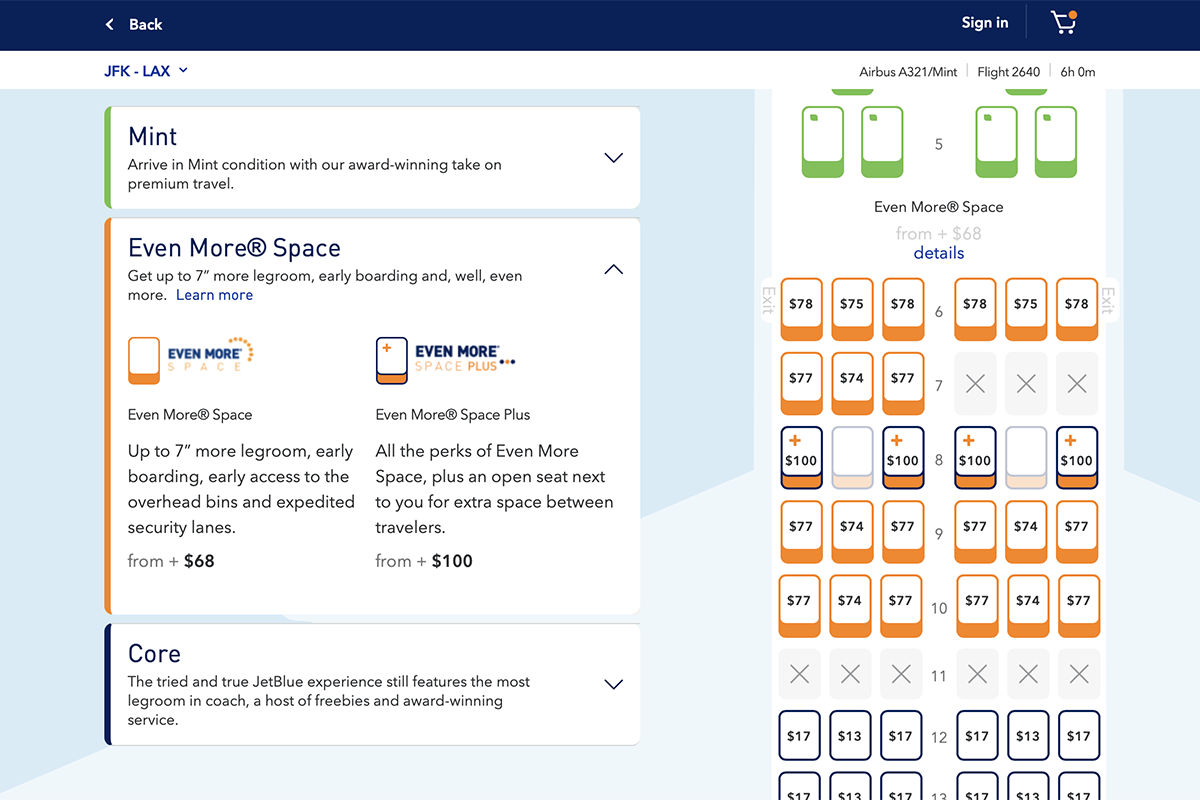
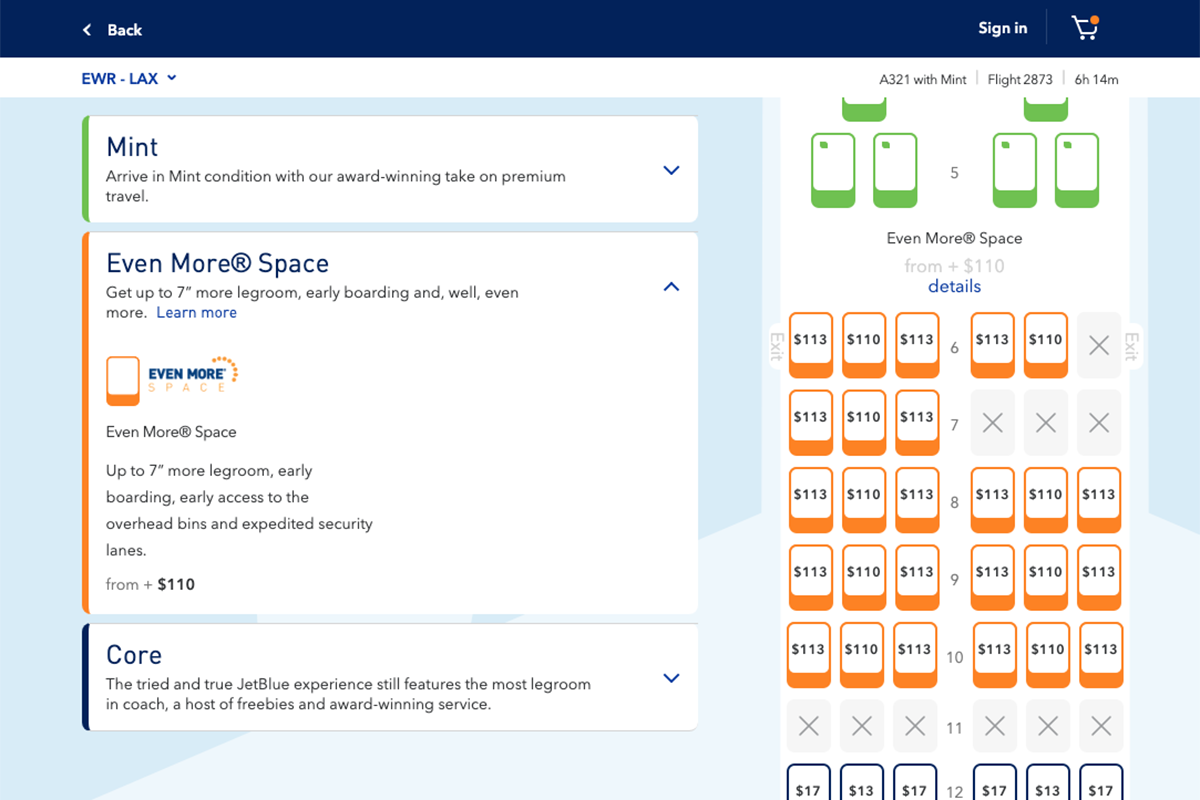
Deploying the "Redesigning the jetblue.com Booking Flow" work page

Changed region(s): [[0.0, 0.0, 1.0, 1.0], [0.3083, 0.4062, 0.4317, 0.5312]]

diff --git a/redesigning-booking.html b/redesigning-booking.html
@@ -160,7 +160,9 @@
 								<div class="row">
 									<div class=" col-xs-12 col-sm-12 ">
 										<div class="col-inner">
-											<p>Nulla nulla nisl, sodales ac nulla ac, consequat vulputate purus. Curabitur tincidunt ipsum vel nibh rutrum accumsan. Nunc ullamcorper posuere leo, vitae aliquet risus pharetra in. Integer turpis eros, iaculis et mi non, pulvinar egestas leo. Etiam sagittis ex turpis, vitae cursus tortor interdum eu. Quisque ultrices nunc eget erat vestibulum euismod. Ut mauris nisi, facilisis at arcu nec, facilisis porttitor lorem.</p><p>Vivamus vitae neque molestie, porta libero sed, tincidunt leo. In nec posuere odio, id rhoncus lorem. Proin id erat ut dolor condimentum viverra. Praesent viverra sed dolor ac luctus. Praesent placerat id lorem quis lacinia.</p>
+											<p>In the summer of 2017, <a href="http://mediaroom.jetblue.com/investor-relations/press-releases/2018/06-01-2018-174056016" title="JetBlue Unveils a Refreshed jetblue.com" target="_blank">JetBlue announced the "Digital 2020" program</a> - a three year initiative to redesign and reinvent all Customer-facing digital products. This program included a fully responsive and redesigned homepage, a <a href="redesigning-loyalty.html" title="Redesigning the TrueBlue Loyalty Experience">brand new Loyalty experience</a>, and a lofty goal of "reinventing the way Customers shop and book travel."</p>
+
+											<p>Below are some screenshots of the brand new booking experience set to fully roll out to Customers in the coming months.</p>
 
 											<figure>
 												<div class="twentytwenty-container">
@@ -169,18 +171,6 @@
 												</div>
 												<figcaption>Previous Flight Results experience left, new experience right.</figcaption>
 											</figure>
-
-											<p>Etiam interdum vulputate risus, vitae elementum neque consectetur sed. Donec at risus dui. Ut in suscipit neque. Vestibulum sit amet lobortis magna, commodo venenatis ante. Cras molestie, ex a auctor lacinia, risus est aliquam risus, sit amet semper purus tortor id ante. Donec lacus ipsum, porttitor et libero a, fringilla auctor quam. Sed in nisl id libero tincidunt aliquet. Aenean dui ipsum, auctor ut leo ut, semper dignissim lacus. Suspendisse faucibus viverra consequat. Maecenas efficitur massa vel eros sagittis dapibus. Nam lobortis mi in turpis hendrerit eleifend. Nulla non massa felis.</p>
-
-											<figure>
-												<div class="twentytwenty-container">
-													<img src="img/work_booking/seatselection_old.png" alt="Old Seat Selection experience">
-													<img src="img/work_booking/seatselection_new.png" alt="New Seat Selection experience">
-												</div>
-												<figcaption>Previous Seat Selection experience left, new experience right.</figcaption>
-											</figure>
-
-											<p>Etiam interdum vulputate risus, vitae elementum neque consectetur sed. Donec at risus dui. Ut in suscipit neque. Vestibulum sit amet lobortis magna, commodo venenatis ante. Cras molestie, ex a auctor lacinia, risus est aliquam risus, sit amet semper purus tortor id ante. Donec lacus ipsum, porttitor et libero a, fringilla auctor quam. Sed in nisl id libero tincidunt aliquet. Aenean dui ipsum, auctor ut leo ut, semper dignissim lacus. Suspendisse faucibus viverra consequat. Maecenas efficitur massa vel eros sagittis dapibus. Nam lobortis mi in turpis hendrerit eleifend. Nulla non massa felis.</p>
 
 											<div class="work-image">
 												<figure>
@@ -192,7 +182,13 @@
 												</figure>
 											</div>
 
-											<p>Donec sit amet dolor ante. Vivamus vel massa accumsan, faucibus quam quis, convallis velit. Aliquam erat volutpat. Integer imperdiet diam quis arcu venenatis, quis sagittis nibh rhoncus. Donec non nisi scelerisque, sodales metus quis, accumsan mauris. Curabitur volutpat risus rutrum erat condimentum tristique. Nullam at felis diam. Quisque dictum felis non ante pretium mollis. Aliquam turpis neque, varius nec diam a, aliquam pulvinar diam. Interdum et malesuada fames ac ante ipsum primis in faucibus. Sed ipsum libero, aliquet sed bibendum faucibus, semper a dui.</p>
+											<figure>
+												<div class="twentytwenty-container">
+													<img src="img/work_booking/seatselection_old.png" alt="Old Seat Selection experience">
+													<img src="img/work_booking/seatselection_new.png" alt="New Seat Selection experience">
+												</div>
+												<figcaption>Previous Seat Selection experience left, new experience right.</figcaption>
+											</figure>
 										</div>
 									</div>
 								</div>
@@ -203,7 +199,7 @@
 								<div class="date-author">
 									<span class="entry-date">
 											<i class="far fa-clock"></i>
-											<span class="entry-date"> February 01, 2021</span>
+											<span class="entry-date"> February 27, 2021</span>
 									</span>
 								</div>
 							</div>

diff --git a/index.html b/index.html
@@ -510,7 +510,7 @@
 												<h4 class="item-title">Product Manager – Digital Commerce</h4>
 												<ul>
 													<li>Drove the product roadmap, strategy, and execution for JetBlue's e-commerce products achieving an overall improvement to direct digital share and conversion rate by 11.7% and 2.3% respectively</li>
-													<li>Redesigned, rebuilt, and launched an entirely new and responsive booking flow focused on leveraging e-commerce best practices and usability testing in collaboration with seven cross-functional onshore and offshore scrum teams and a digital design agency</li>
+													<li>Redesigned, rebuilt, and launched an <a href="redesigning-booking.html" title="Redesigning the jetblue.com Booking Flow">entirely new and responsive booking flow</a> focused on leveraging e-commerce best practices and usability testing in collaboration with seven cross-functional onshore and offshore scrum teams and a digital design agency</li>
 													<li>Led a critical company-wide program to overhaul JetBlue’s fare options and <a href="introducing-basic-economy.html" title="Inspiring Humanity with JetBlue's Basic Economy">introduce a Basic Economy product</a> increasing annual revenue by $150 million</li>
 													<li>Executed a series of initiatives to communicate safety and promote flexibility throughout the digital booking channels in response to changing Customer behavior as a result of the COVID-19 pandemic</li>
 												</ul>
@@ -813,7 +813,7 @@
 							<div class="row">
 								<div class="col-xs-12 col-sm-12">
 									<div class="blog-masonry two-columns clearfix">
-										<!-- Redesigning booking 
+										<!-- Redesigning booking -->
 										<div class="item post-1">
 											<div class="blog-card">
 												<div class="media-block">
@@ -823,14 +823,14 @@
 													</a>
 												</div>
 												<div class="post-info">
-													<div class="post-date">01 Feb 2021</div>
+													<div class="post-date">27 Feb 2021</div>
 													<a href="redesigning-booking.html" title="Redesigning the jetblue.com Booking Flow">
 														<h4 class="blog-item-title">Redesigning the jetblue.com Booking Flow</h4>
 													</a>
 												</div>
 											</div>
 										</div>
-										/Redesigning booking -->
+										<!-- /Redesigning booking -->
 
 										<!-- Introducing Basic Economy -->
 										<div class="item post-1">

diff --git a/introducing-basic-economy.html b/introducing-basic-economy.html
@@ -159,7 +159,7 @@
 								<div class="row">
 									<div class=" col-xs-12 col-sm-12 ">
 										<div class="col-inner">
-											<p>As more and more airlines rolled out Basic Economy fares, JetBlue saw a unique opportunity to introduce its take on Basic Economy with the introduction of "Blue Basic." This new fare allows Customers to bring a carry-on bag and personal item - a differentiator from competitor Basic Economy fares, although Customers have to pay for advanced seat selection, are restricted on changing or canceling their itinerary, and board last. In addition to the introduction of Blue Basic, JetBlue revisited all of its fare offerings to ensure they were realigned to Customer preferences and introduced pre-paid checked bags.</p>
+											<p>As more and more airlines rolled out Basic Economy fares, JetBlue saw a unique opportunity to introduce its take on Basic Economy with the introduction of "Blue Basic." This new fare allows Customers to bring a personal item - a differentiator from competitor Basic Economy fares, although Customers have to pay for advanced seat selection, are restricted on changing or canceling their itinerary, and board last. In addition to the introduction of Blue Basic, JetBlue revisited all of its fare offerings to ensure they were realigned to Customer preferences and introduced pre-paid checked bags.</p>
 
 											<p>Given that this program was e-commerce focused, our team was responsible for the overall digital product experience, engineering implementation, and final delivery. However, changing the fare offering impacted 26 different workstreams throughout the company - everything from Customer Support booking applications to check-in products, boarding logic, airport information displays, in-flight Crewmember iPad apps, etc.</p>
 
